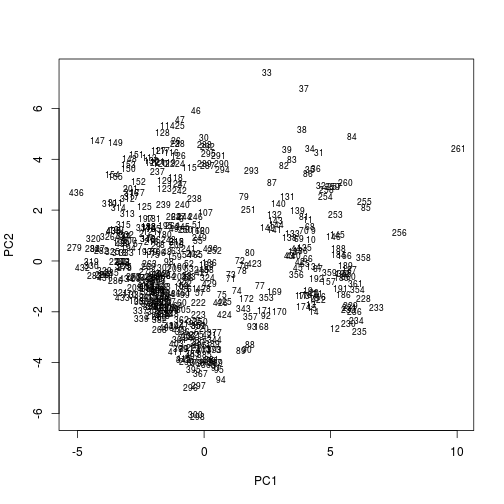
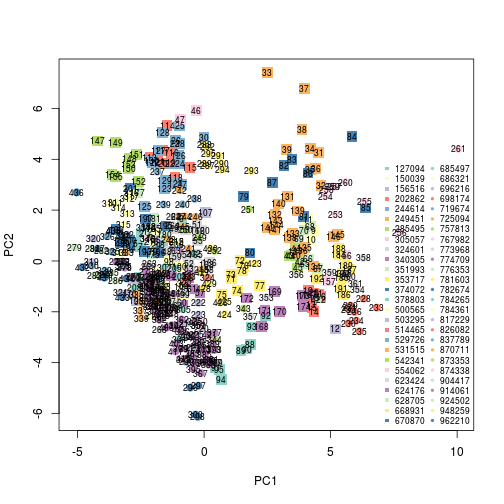
pca exercise solution

diff --git a/vis/ABRF-data.md b/vis/ABRF-data.md
@@ -98,6 +98,9 @@ The 46 metrics generated by the 'IDFree' mode of QuaMeter.
 * Locate the data file is `20121213-ABRF-PRF-IDFree-metrics.xlsx` on your disk.
 
 
+```r
+idfile <- "../data/20121213-ABRF-PRF-IDFree-metrics.xlsx"
+```
 
 * It is an Excel file. We have seen how to read a text-based
   spreadsheet using `read.csv`, `read.delim`, `read.table`, ...  We
@@ -105,20 +108,75 @@ The 46 metrics generated by the 'IDFree' mode of QuaMeter.
   read it in. Load the package in your R session.
 
 
+```r
+library("readxl")
+```
 * In addition to the file name, we also need to provide which sheet to
   read the data from. Check the `read_xl` documentation page and
   identify how to do this.
 
 
+```r
+?read_xl
+```
 * Read the data into R
 
 
+```r
+idfree <- read_excel(idfile, sheet = "ID-free metrics")
+```
 
 * What are the dimensions of the data. Check the names of the
   columns. What class is the variable you created with the
   `read_excel` function.
 
 
+```r
+dim(idfree)
+```
+
+```
+## [1] 439  48
+```
+
+```r
+colnames(idfree)
+```
+
+```
+##  [1] "Month"                  "Id"                    
+##  [3] "Filename"               "StartTimeStamp"        
+##  [5] "XIC-WideFrac"           "XIC-FWHM-Q1"           
+##  [7] "XIC-FWHM-Q2"            "XIC-FWHM-Q3"           
+##  [9] "XIC-Height-Q2"          "XIC-Height-Q3"         
+## [11] "XIC-Height-Q4"          "RT-Duration"           
+## [13] "RT-TIC-Q1"              "RT-TIC-Q2"             
+## [15] "RT-TIC-Q3"              "RT-TIC-Q4"             
+## [17] "RT-MS-Q1"               "RT-MS-Q2"              
+## [19] "RT-MS-Q3"               "RT-MS-Q4"              
+## [21] "RT-MSMS-Q1"             "RT-MSMS-Q2"            
+## [23] "RT-MSMS-Q3"             "RT-MSMS-Q4"            
+## [25] "MS1-TIC-Change-Q2"      "MS1-TIC-Change-Q3"     
+## [27] "MS1-TIC-Change-Q4"      "MS1-TIC-Q2"            
+## [29] "MS1-TIC-Q3"             "MS1-TIC-Q4"            
+## [31] "MS1-Count"              "MS1-Freq-Max"          
+## [33] "MS1-Density-Q1"         "MS1-Density-Q2"        
+## [35] "MS1-Density-Q3"         "MS2-Count"             
+## [37] "MS2-Freq-Max"           "MS2-Density-Q1"        
+## [39] "MS2-Density-Q2"         "MS2-Density-Q3"        
+## [41] "MS2-PrecZ-1"            "MS2-PrecZ-2"           
+## [43] "MS2-PrecZ-3"            "MS2-PrecZ-4"           
+## [45] "MS2-PrecZ-5"            "MS2-PrecZ-more"        
+## [47] "MS2-PrecZ-likely-1"     "MS2-PrecZ-likely-multi"
+```
+
+```r
+class(idfree)
+```
+
+```
+## [1] "tbl_df"     "tbl"        "data.frame"
+```
 
 ## Principal component analysis (PCA)
 
@@ -147,6 +205,9 @@ can be set with appropriate parameters in the `prcomp` function.
 > Apply the `prcomp` function on the centred and scaled `idfree` data.
 
 
+```r
+pca <- prcomp(idfree[, -(1:4)], scale = TRUE, center = TRUE)
+```
 
 There are two types of plots that can be generated. A scree plot, that
 show the variance explained by each PC, and the biplot, that projects
@@ -156,6 +217,17 @@ manual page.
 > Produce the scree- and biplot for the QC data.
 
 
+```r
+plot(pca)
+```
+
+![plot of chunk unnamed-chunk-9](figure/unnamed-chunk-9-1.png)
+
+```r
+biplot(pca)
+```
+
+![plot of chunk unnamed-chunk-9](figure/unnamed-chunk-9-2.png)
 
 We can also extract the projected data points from the output of
 `prcomp` to generate an annotated plot ourselves. These data are
@@ -165,8 +237,35 @@ stored in the element names `x`.
 > along PC1 and PC2, and PC1 and PC3. 
 
 
+```r
+plot(pca$x[, 1:2], col = idfree$Id, cex = 2, pch = 19)
+```
+
+![plot of chunk unnamed-chunk-10](figure/unnamed-chunk-10-1.png)
+
+```r
+plot(pca$x[, c(1, 3)], col = idfree$Id, cex = 2, pch = 19)
+text(pca$x[, 1], pca$x[, 2], rownames(idfree), cex = .7)
+```
+
+![plot of chunk unnamed-chunk-10](figure/unnamed-chunk-10-2.png)
 
 > **Extra**: added colours representing the acquisitions identifiers
 > and add the row indices on the plot (using the `text` function).
 
 
+```r
+library("RColorBrewer")
+cls <- c(brewer.pal(12, "Set3"), "steelblue")
+cls <- rep(cls, 4)
+pch <- rep(c(15, 20), each = 26)
+names(cls) <- names(pch) <- unique(idfree$Id)
+
+plot(pca$x[, 1:2], cex = 2, col = cls[as.character(idfree$Id)],
+     pch = pch[as.character(idfree$Id)])
+text(pca$x[, 1], pca$x[, 2], rownames(idfree), cex = .7)
+legend("bottomright", legend = unique(idfree$Id),
+       col = cls, pch = pch, ncol = 2, cex = .7, bty = "n")
+```
+
+![plot of chunk unnamed-chunk-11](figure/unnamed-chunk-11-1.png)
